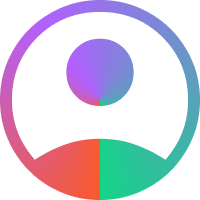
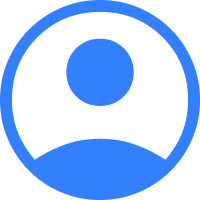
修改logo

diff --git a/src/views/home/app-home.vue b/src/views/home/app-home.vue
@@ -5,7 +5,7 @@
 
       <div class="app-menu">
         <div class="app-menu-title">
-          <span>主题</span>
+          <span>产品</span>
           <Expand
             color="#BBBBBB"
             :size="20"
@@ -21,7 +21,7 @@
                 class="app-menu-item"
               >
                 admin模板
-                <OpenInNew :size="20" />
+                <OpenInNew :size="16" />
               </router-link>
             </li>
           </ul>
@@ -43,7 +43,10 @@
     </header>
 
     <section class="app-snapshot">
-      <img :src="logo3d" alt=" ">
+      <img
+        :src="logo3d"
+        alt=" "
+      >
       <h1 class="a-s-title">
         前端 开源 框架
       </h1>
@@ -65,7 +68,7 @@ import {
   GitHub
 } from '../../components/svicon/otherIcon';
 import AppAttached from './app-attached.vue'
-import logo3d from '../../assets/logo-3d.png'
+import logo3d from '../../assets/logo.png'
 
 export default defineComponent({
   name: 'AppHome',
@@ -178,6 +181,10 @@ export default defineComponent({
     margin-left: -500px;
     margin-top: -270px;
     text-align: center;
+    & img{
+      width: 200px;
+      height: 200px;
+    }
     & .a-s-title{
       color: #FFFFFF;
       font-size: 60px;

diff --git a/src/views/login/app-login.vue b/src/views/login/app-login.vue
@@ -58,9 +58,9 @@
 </template>
 
 <script lang="ts">
-import {defineComponent, inject, provide, reactive} from 'vue';
+import {defineComponent, inject, reactive} from 'vue';
 import {useRouter} from 'vue-router';
-import logo from '../../assets/logo.svg'
+import logo from '../../assets/logo.png'
 import {
   Person,
   Lock,
